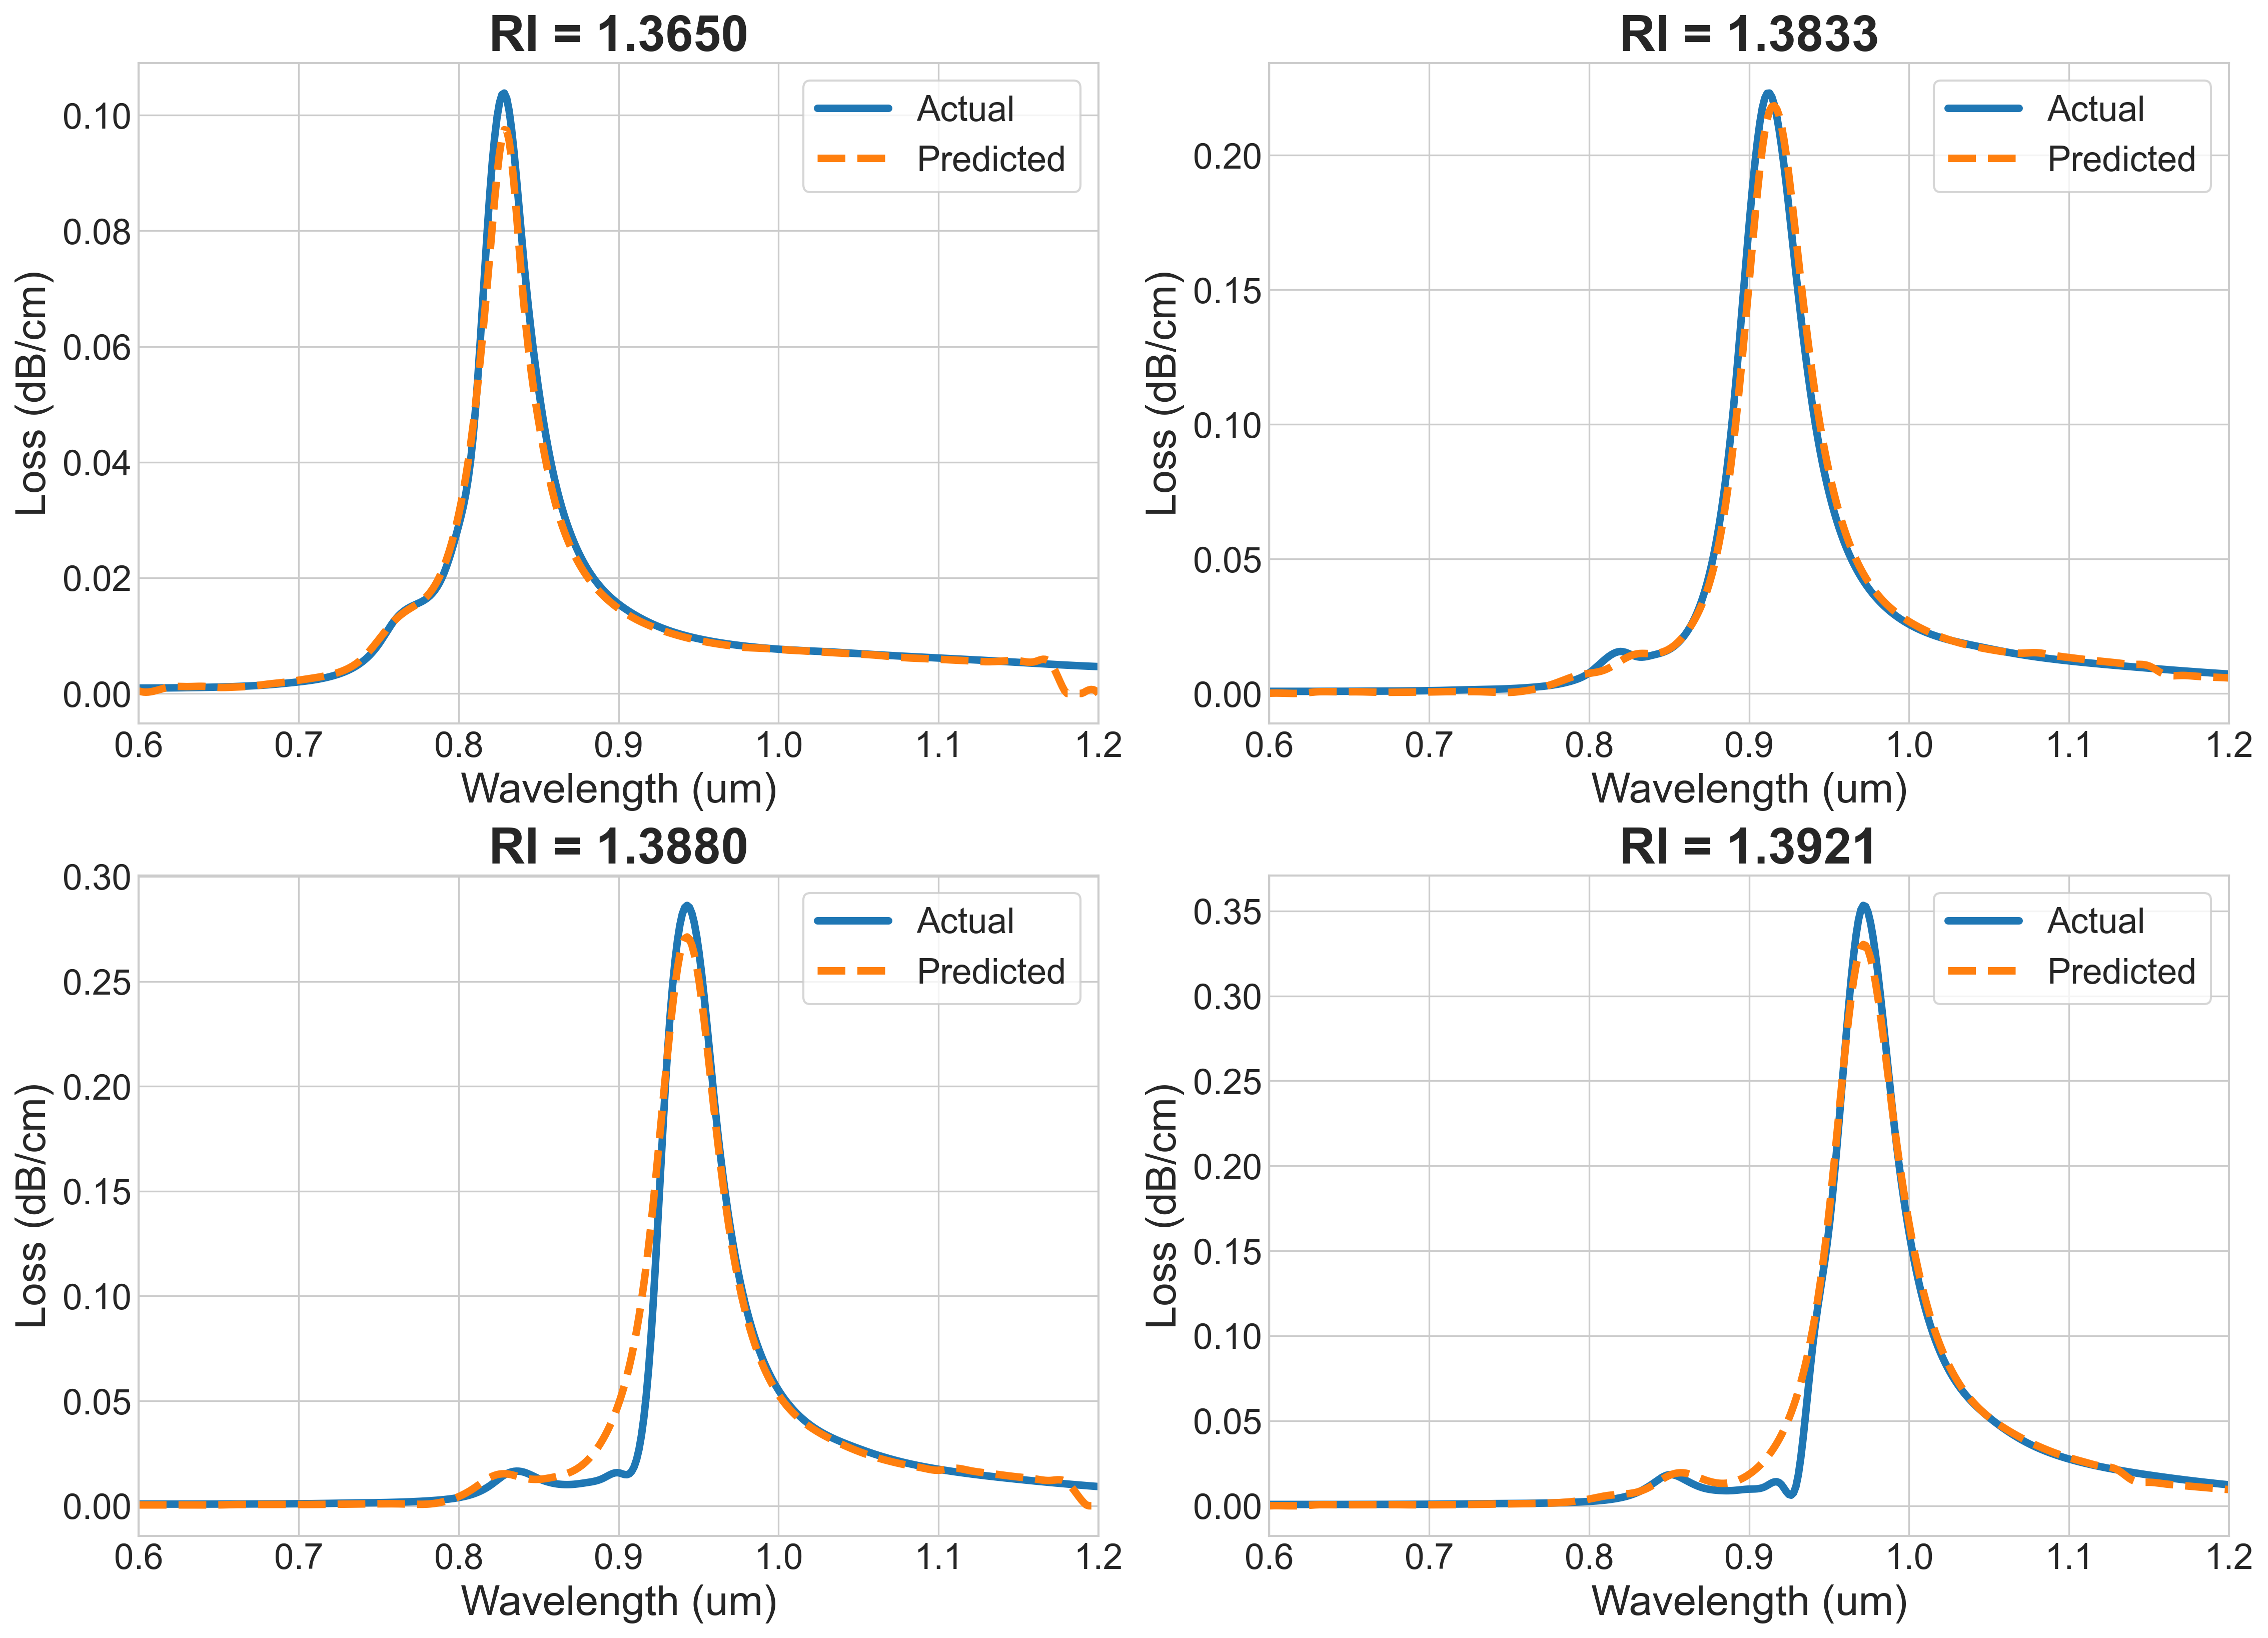
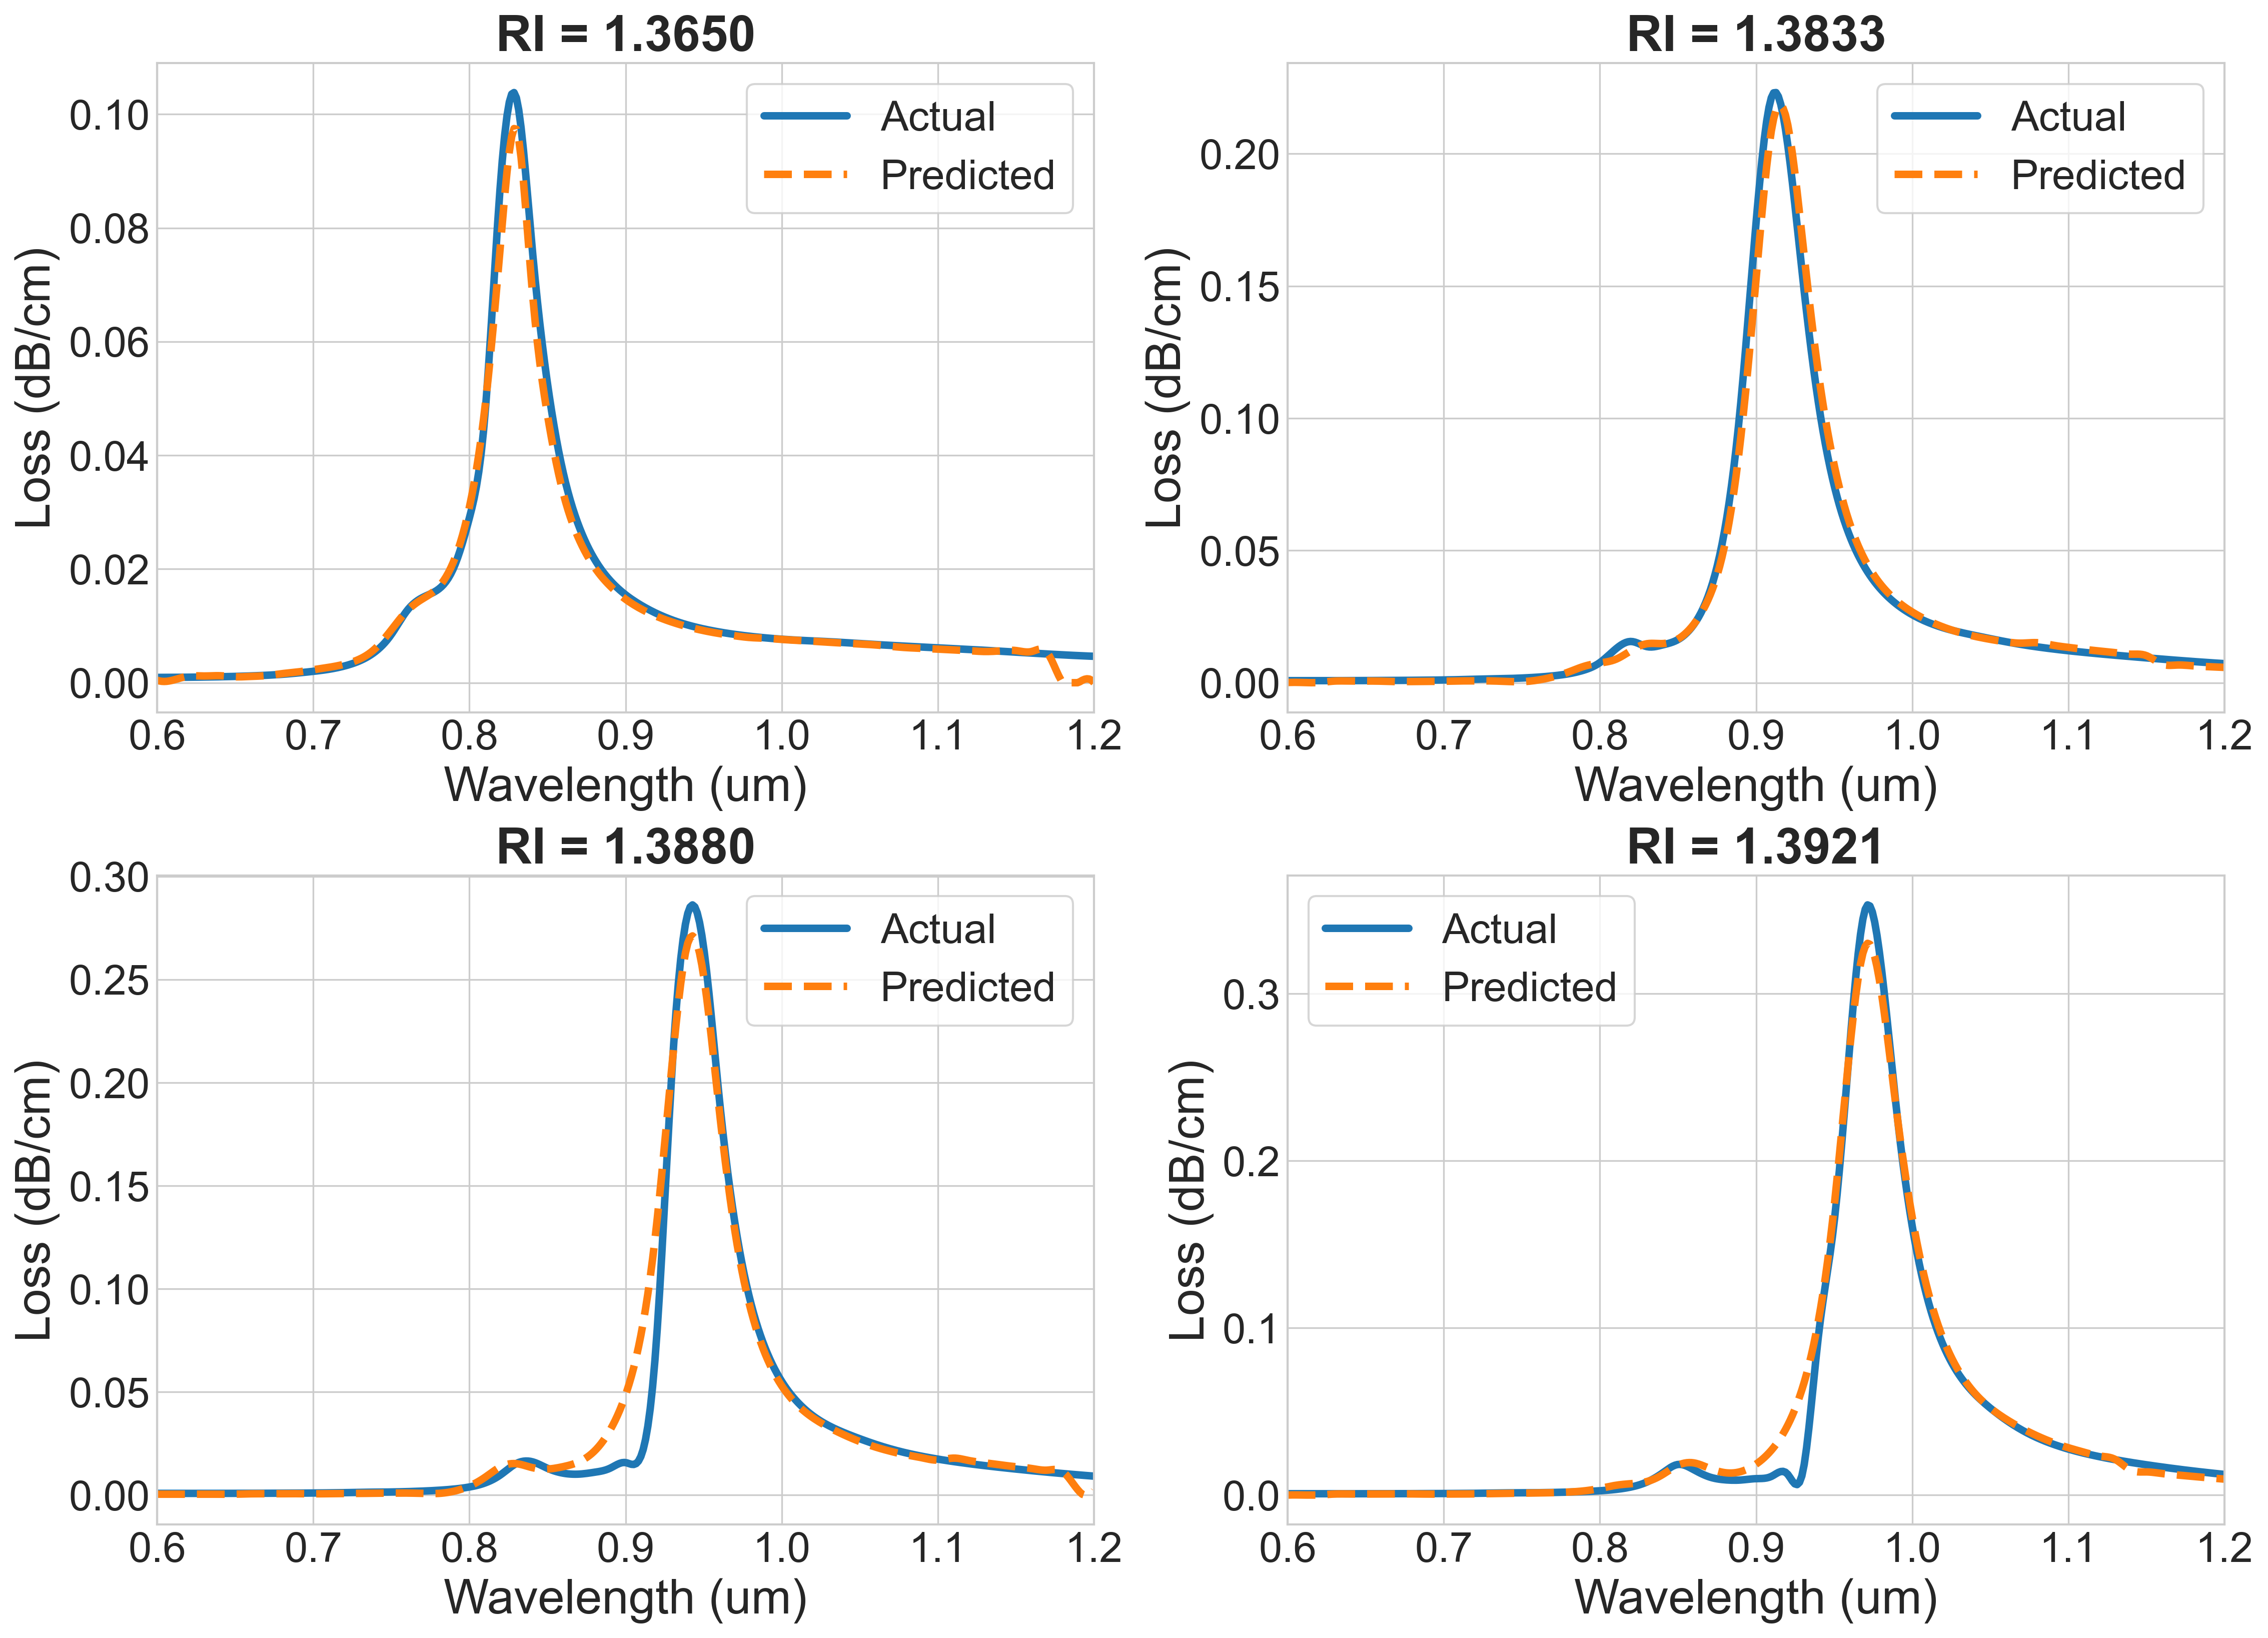
Update figure styling parameters for improved visualization in ML paper assets

diff --git a/generate_ml_paper_assets.py b/generate_ml_paper_assets.py
@@ -14,9 +14,9 @@ from photonics.core import TESTING_FILE, TRAINING_FILE, X_AXIS, load_dataset
 
 OUT_DIR = Path("Research_Soumik")
 TITLE_SIZE = 24
-AXIS_LABEL_SIZE = 20
-TICK_LABEL_SIZE = 17
-LEGEND_SIZE = 17
+AXIS_LABEL_SIZE = 23
+TICK_LABEL_SIZE = 20
+LEGEND_SIZE = 20
 LINE_WIDTH = 3.6
 MARKER_SIZE = 110
 